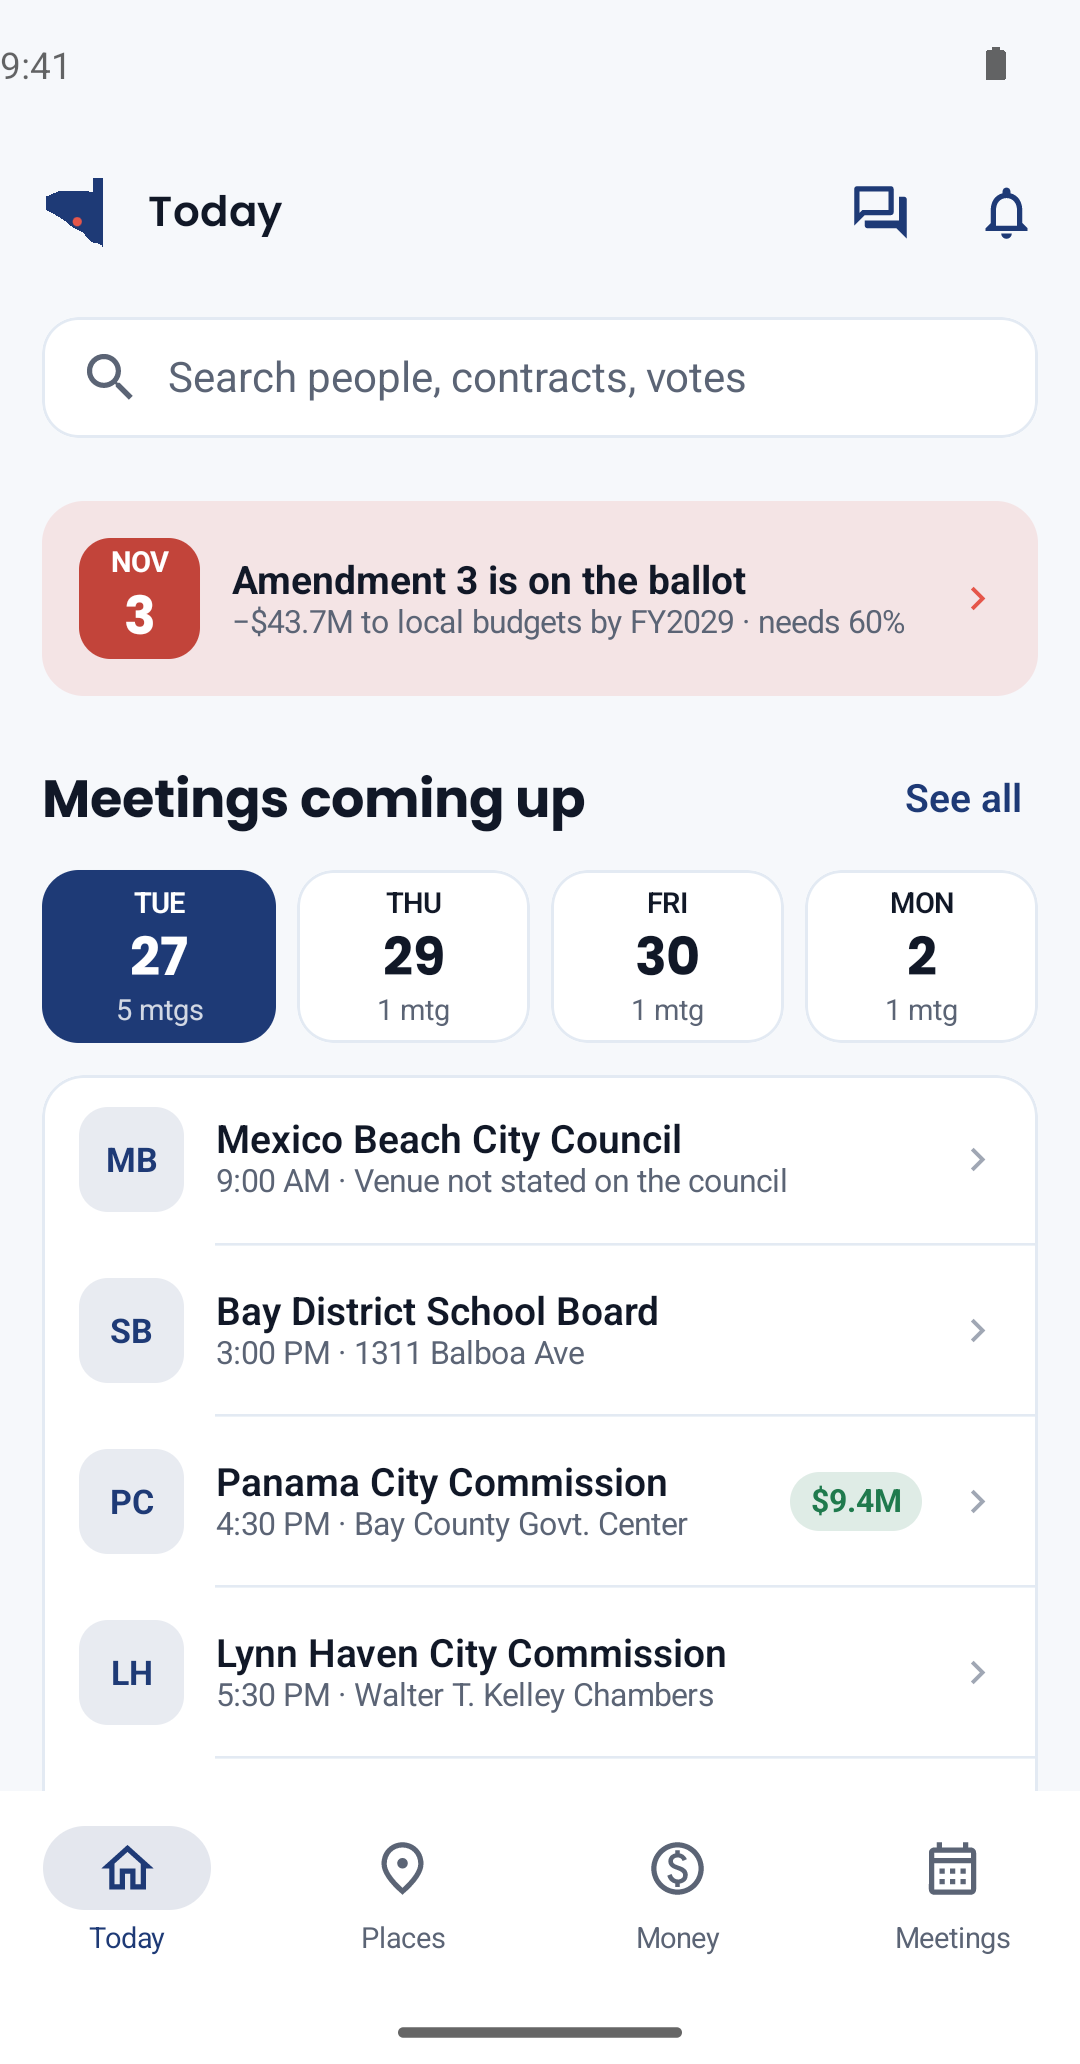
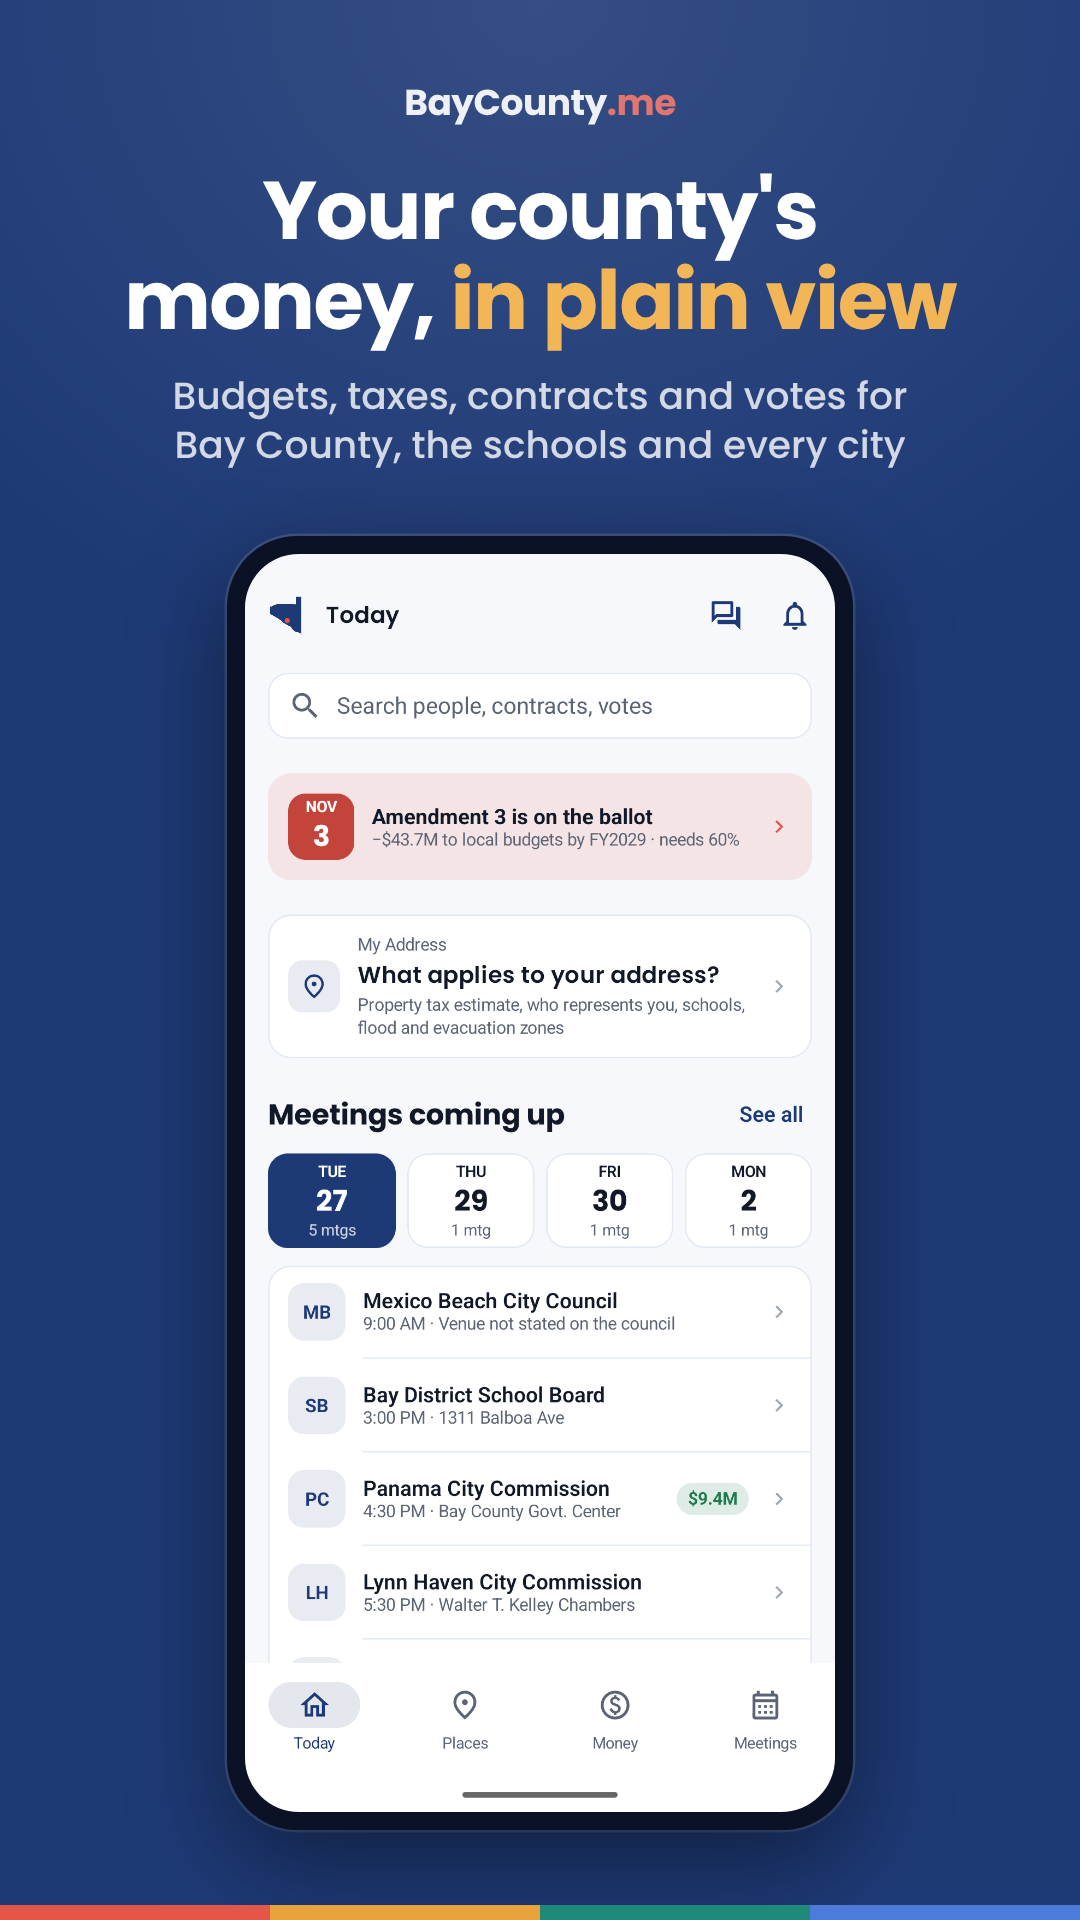
Play store screenshots: 7 framed 1080x1920 shots from the live emulator run, matching the App Store set
Claude-Session: https://claude.ai/code/session_01HUBaQrnQzc4wmcUB5UGrtg

diff --git a/android/store/listing.md b/android/store/listing.md
@@ -51,7 +51,7 @@ Education (or News & Magazines)
 
 - App icon: `icon-512.png` (512 × 512)
 - Feature graphic: `feature-graphic.png` (1024 × 500)
-- Phone screenshots: `screenshots/` (1080 × 1920 each, a caption over the live app). Upload in order; Play shows the first three most. The raw emulator shots they're made from are in `screenshots/raw/`.
+- Phone screenshots: `screenshots/` (1080 × 1920 each, a caption over the live app, made with `ios/scripts/store_screenshots.js` from the Android workflow's `screens-emulator` shots). Upload in order; Play shows the first three most.
 
 ## Production release notes (500 characters max)
 
